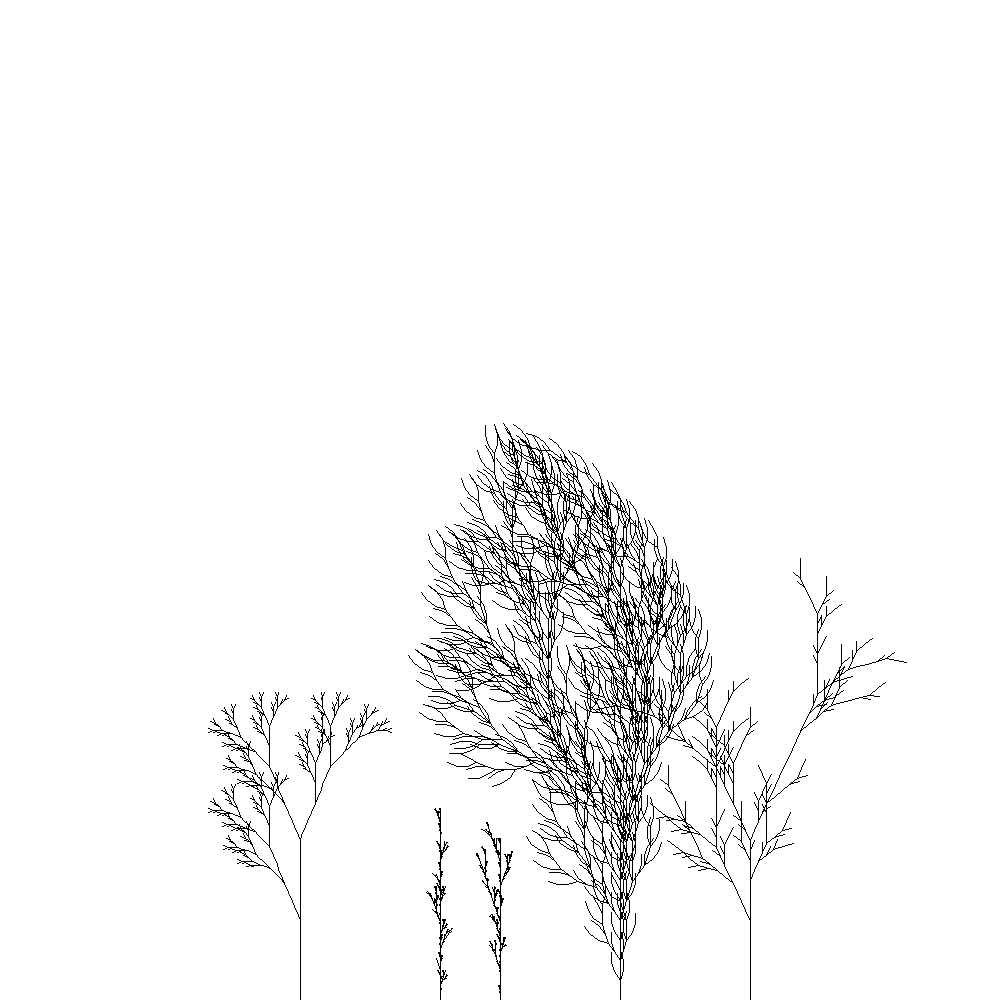
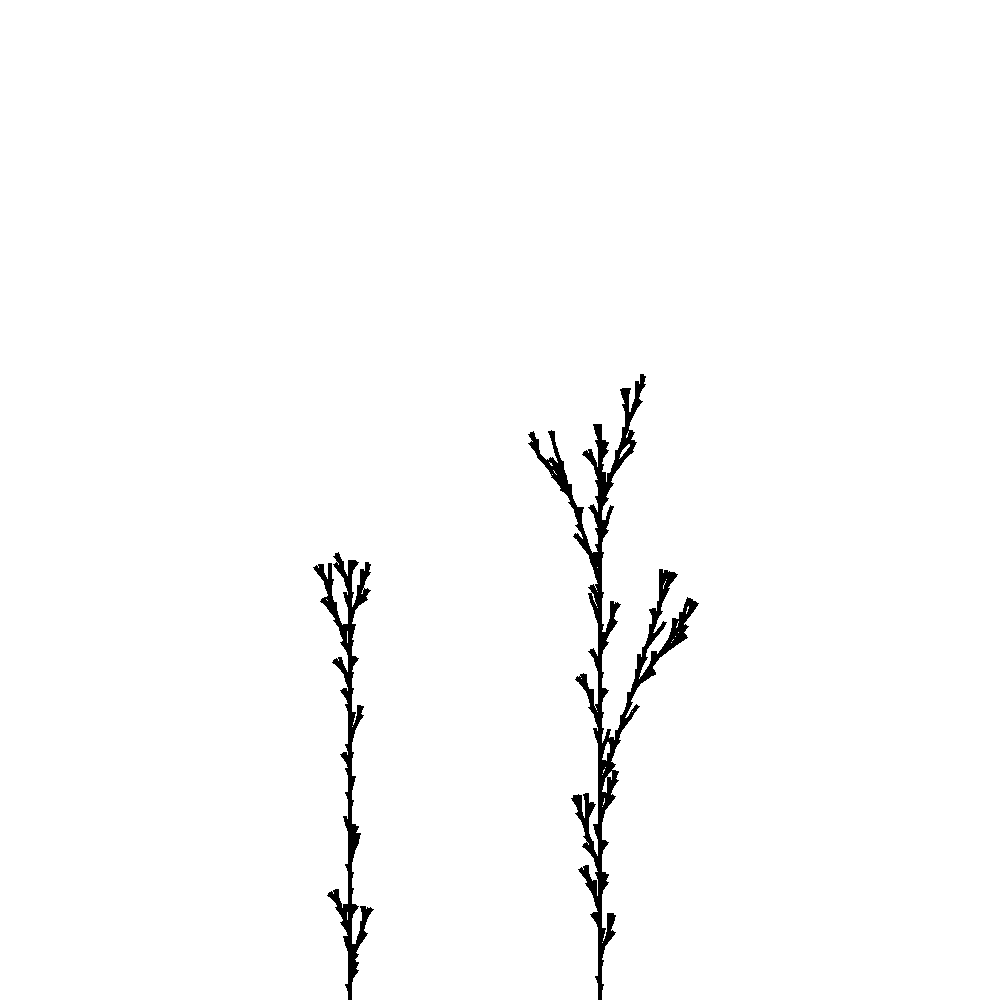
falta cambiar imagenes a vectores

diff --git a/l_system.py b/l_system.py
@@ -26,14 +26,14 @@ def draw_l_system(image: Image,
     stack = []
     draw = ImageDraw.Draw(image)
     init_angle = 270
-    
+    length += 5
     #print(axiom)
     for c in axiom:
         if c == "F" or c == "X":
 
             x1 = x + length * np.cos(np.radians(init_angle))
             y1 = y + length * np.sin(np.radians(init_angle))
-            draw.line((x, y, x1, y1), fill="black")
+            draw.line((x, y, x1, y1), width=4 ,fill="black", joint="curve")
             x, y = x1, y1
 
 
@@ -96,15 +96,15 @@ if __name__ == '__main__':
                "F[-F]F",],
     }
 
-    draw_l_system(image, l_system("X", rules_2, iterations), seed=(300, 1000), length=5, angle=22.5)
-    draw_l_system(image, l_system("X", rules, 4), seed=(750, 1000), length=10, angle=25)
-    draw_l_system(image, l_system("F", rules_3, 5), seed=(500, 1000), length=3, angle=18)
+    #draw_l_system(image, l_system("X", rules_2, iterations), seed=(500, 1000), length=8, angle=22.5)
+    draw_l_system(image, l_system("X", rules, 4), seed=(500, 1000), length=15, angle=30.5)
+    #draw_l_system(image, l_system("F", rules_3, 5), seed=(600, 1000), length=3, angle=18)
     #draw_l_system(image, l_system("F", rules_3, 5), seed=(560, 1000),       =3, angle=18)
-    draw_l_system(image, l_system("F", rules_3, 5), seed=(440, 1000), length=3, angle=18)
-    draw_l_system(image, l_system("F", rules_1, 4), seed=(620, 1000), length=10, angle=18)
-    image.show()
+    #draw_l_system(image, l_system("F", rules_3, 5), seed=(350, 1000), length=3, angle=18)
+    #draw_l_system(image, l_system("F", rules_1, 4), seed=(550, 1000), length=12, angle=24)
+    #image.show()
     # Erase the background 
-    image.save("l_system.png")
+    image.save("l_system_4.png", dpi = (600, 600))
     
     
     

diff --git a/flood_fill.py b/flood_fill.py
@@ -57,12 +57,12 @@ def flood_fill(seeds : list, limits : int, im : Image) -> None:
                 
                 tree[x+dx][y+dy] = 1
 
-                if step >= 100 and step % 20 == 0: 
+                if step >= 200 and step % 50 == 0: 
                     
-                    ncolor = gaussian_color((.1, .75, .05))
+                    ncolor = gaussian_color((.99, .99, .99))
                     queue.append((x+dx, y+dy,step+1, mix_colors(color, ncolor )))
-                elif step < 100 and step % 10 == 0: 
-                    ncolor = gaussian_color((.9, .9, .05))
+                elif step < 200 and step % 40 == 0: 
+                    ncolor = gaussian_color((.9, .9, .9))
                     queue.append((x+dx, y+dy,step+1, mix_colors(color, ncolor )))
                 else: 
                     queue.append((x+dx, y+dy,step+1, color))
@@ -93,13 +93,13 @@ def fill_holes(image: Image , limits : int) -> Image:
 
 
 if __name__ == "__main__":
-    limits = 1000
-    size = 2
+    limits = 1500
+    size = 1
     np.random.seed()
     im = Image.new('RGB', (limits, limits), (0, 0, 0))
 
-    #seeds = [(get_random_coordinates(limits=limits), gaussian_color()) for _ in range(size)]   
-    seeds = [((200, 800), (255,255,0))]
+    seeds = [(get_random_coordinates(limits=limits), gaussian_color()) for _ in range(size)]   
+    #seeds = [((300, 1200), (255,255,0))]
 
     flood_fill(seeds, limits, im)
     #im.show()
@@ -108,7 +108,7 @@ if __name__ == "__main__":
 
     #im.show()
 
-    im.save('image.png')
+    im.save('image_2.png', dpi = (600, 600))
 
 
 #print(get_random_coordinates(500))
